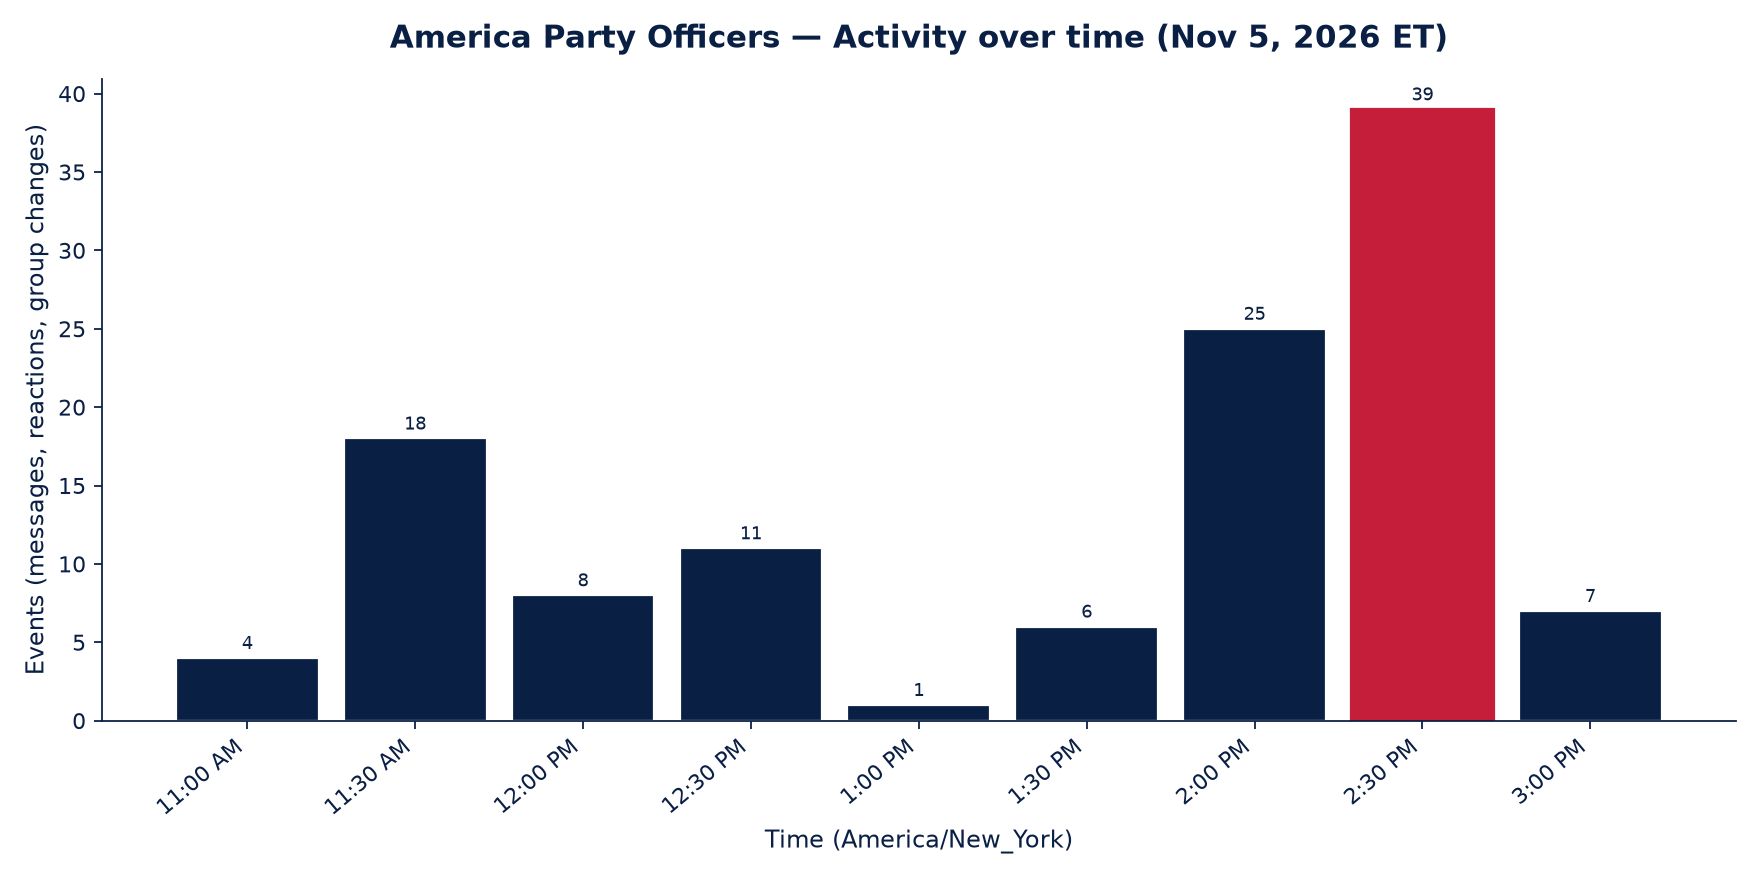
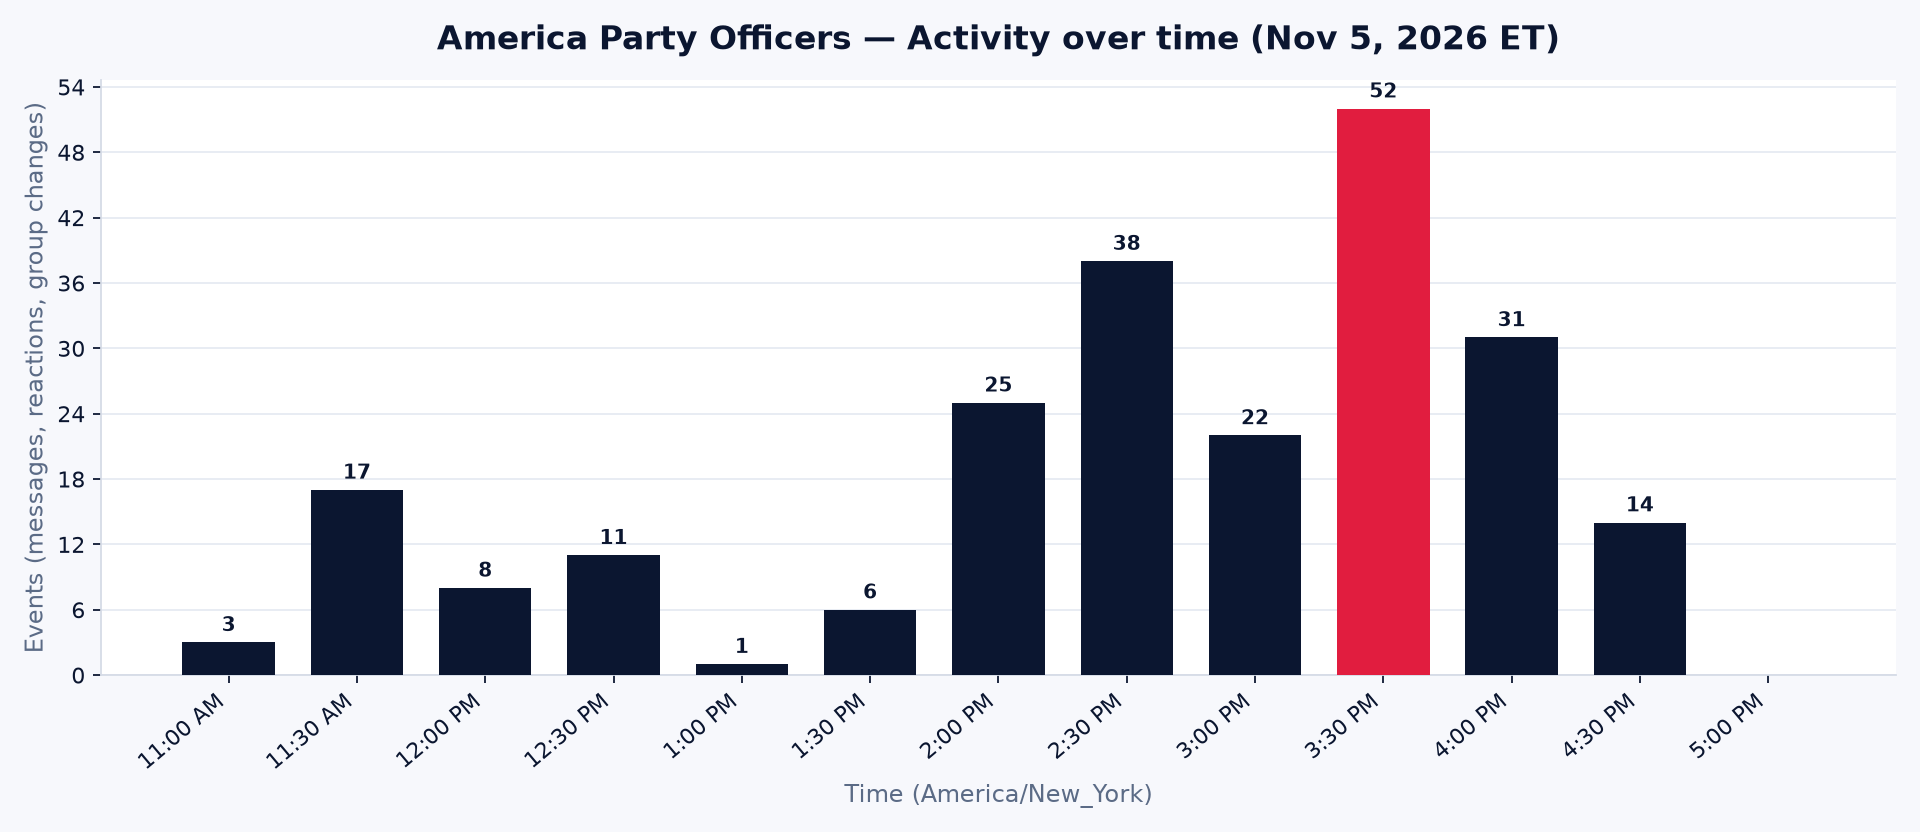
Update America Party recap with 13-plank draft and latest Officers chat
Refresh the standalone officers page from the Nov 5 X Chat scrape: thirteen platform planks, session summary through 4:51 PM ET, new charts, and designs shared by Ben and Jason.

diff --git a/america-party/index.html b/america-party/index.html
@@ -7,7 +7,7 @@
 <link rel="preconnect" href="https://fonts.gstatic.com" crossorigin>
 <link href="https://fonts.googleapis.com/css2?family=Archivo+Black&family=Manrope:wght@400;500;700;800&display=swap" rel="stylesheet">
 <title>America Party · Officers Recap</title>
-<meta name="description" content="America Party Officers X Chat recap — platform draft, conversation summary, charts, and branding imagery from Thu Nov 5, 2026.">
+<meta name="description" content="America Party Officers X Chat recap — 13-plank platform draft, conversation summary, charts, and branding imagery from Thu Nov 5, 2026.">
 <style>
 :root{--bg:#060d1c;--bg2:#0b1630;--card:#0f1d3a;--line:rgba(255,255,255,.09);--ink:#f4f6fb;--mut:#a7b3c9;--red:#e11d3f;--red2:#ff4d6a;--blue:#3b6cff;--trim:#d4b25a;
 --disp:"Archivo Black","Archivo",system-ui,sans-serif;--sans:"Manrope",system-ui,-apple-system,"Segoe UI",Roboto,sans-serif}
@@ -104,32 +104,32 @@ footer::before{content:"";display:block;width:90px;height:4px;margin:0 auto 18px
 
   <section class="panel reveal" id="platform">
     <span class="eyebrow">Platform draft</span>
-    <h2>Ten planks under discussion</h2>
-    <p class="lede">A working draft of ten planks, with each core idea kept separate from proposed wording. Sourced from the shared America First platform draft for revision inside the officers group.</p>
+    <h2>Thirteen planks under discussion</h2>
+    <p class="lede">A working draft of thirteen planks, with each core idea kept separate from proposed wording. Sourced from the shared America First platform draft for revision inside the officers group.</p>
     <div class="notice" role="note">
-      <strong>Draft, not adopted.</strong> A work in progress for discussion and revision. These positions have not been formally adopted.
+      <strong>Draft, not adopted.</strong> A work in progress for discussion and revision. All wording is proposed, not formally adopted. Open choices remain on implementation, costs, tradeoffs, and scope, including lawful entry rules, specific budget cuts, sentencing details, and how term limits would take effect.
     </div>
     <div class="planks">
       <article class="plank card">
-        <span class="num">1</span><h3>Closed borders</h3>
+        <span class="num">1</span><h3>Stop illegal entry, control legal entry</h3>
         <span class="label">Core idea</span>
-        <p class="core">Closed borders. Specific mechanisms are not yet decided.</p>
+        <p class="core">Enforce the border and stop illegal entry, while controlling lawful entry.</p>
         <span class="label w">Proposed wording</span>
-        <p class="wording">We decide who comes into this country. The law at the border should be enforced, and coming in illegally should stop. How we do that will be spelled out as the platform develops.</p>
+        <p class="wording">We decide who comes into this country. Enforce the law at the border and stop illegal entry. Legal entry should be controlled through a lawful process.</p>
       </article>
       <article class="plank card">
         <span class="num">2</span><h3>Balanced budgets</h3>
         <span class="label">Core idea</span>
-        <p class="core">Balanced budgets. Specific mechanisms are not yet decided.</p>
+        <p class="core">Balance the federal budget through real spending cuts and hard choices. Identify what gets cut and show the savings.</p>
         <span class="label w">Proposed wording</span>
-        <p class="wording">Families can't spend more than they take in forever, and neither should Washington. We will work to balance the federal budget and keep it balanced. The specific steps will be spelled out as the platform develops.</p>
+        <p class="wording">Balancing the federal budget will require real spending cuts and hard choices. We will identify what gets cut and show the savings, rather than promise balance without saying where it comes from.</p>
       </article>
       <article class="plank card">
         <span class="num">3</span><h3>Jobs for Americans</h3>
         <span class="label">Core idea</span>
-        <p class="core">Jobs for Americans. Specific mechanisms are not yet decided.</p>
+        <p class="core">Jobs for Americans.</p>
         <span class="label w">Proposed wording</span>
-        <p class="wording">Work in this country should go to Americans, and a job should pay enough to support a family. We want good jobs built and kept here. The specific policies will be spelled out as the platform develops.</p>
+        <p class="wording">Work in this country should go to Americans, and a job should pay enough to support a family. We want good jobs built and kept here.</p>
       </article>
       <article class="plank card">
         <span class="num">4</span><h3>Energy</h3>
@@ -143,14 +143,14 @@ footer::before{content:"";display:block;width:90px;height:4px;margin:0 auto 18px
         <span class="label">Core idea</span>
         <p class="core">We are a law and order party, and criminals should be in jail.</p>
         <span class="label w">Proposed wording</span>
-        <p class="wording">We are a law and order party. Laws should be enforced. People convicted of crimes, after a fair trial and due process, should serve their time in jail.</p>
+        <p class="wording">We are a law and order party. Laws should be enforced. People convicted of violent crimes and repeat offenders should face jail after due process. For minor crimes, penalties should be proportionate and can include restitution rather than jail.</p>
       </article>
       <article class="plank card">
         <span class="num">6</span><h3>Taxes</h3>
         <span class="label">Core idea</span>
         <p class="core">A national sales tax with food and medicine exempt. A consumption-based system using a national sales tax, with the aim that people who spend more, including wealthy consumers, pay more tax on that spending. The rate and which current taxes it would replace are not yet decided.</p>
         <span class="label w">Proposed wording</span>
-        <p class="wording">We want a tax system based on what people buy, through a national sales tax. Food and medicine would not be taxed. Our aim is that people who spend more pay more on that spending. The rate, and which of today's taxes it replaces, will be spelled out as the platform develops.</p>
+        <p class="wording">We want a tax system based on what people buy, through a national sales tax. Food and medicine would not be taxed. Our aim is that people who spend more pay more on that spending. Open choices: the rate, which current taxes this replaces rather than adds to, and the transition rules. The design must address purchases made with previously taxed savings; no treatment has been chosen.</p>
       </article>
       <article class="plank card">
         <span class="num">7</span><h3>Abortion</h3>
@@ -171,14 +171,35 @@ footer::before{content:"";display:block;width:90px;height:4px;margin:0 auto 18px
         <span class="label">Core idea</span>
         <p class="core">Two terms per chamber: two terms in the Senate and two terms in the House of Representatives.</p>
         <span class="label w">Proposed wording</span>
-        <p class="wording">We support a limit of two terms in the Senate and two terms in the House of Representatives. How these limits would take effect will be spelled out as the platform develops.</p>
+        <p class="wording">We support a limit of two terms in the Senate and two terms in the House of Representatives.</p>
       </article>
       <article class="plank card">
         <span class="num">10</span><h3>Innovation, technology, and manufacturing</h3>
         <span class="label">Core idea</span>
         <p class="core">Plan for and embrace the future. Innovation and technology should pave the way for America to lead the world across fields, including manufacturing.</p>
         <span class="label w">Proposed wording</span>
-        <p class="wording">We will plan for the future and embrace innovation and technology. We want America to develop new technologies, put them to work, and lead the world across industries and fields, including manufacturing. Building the future should mean making things in America and preparing Americans for the work ahead.</p>
+        <p class="wording">We will plan for the future and embrace innovation and technology. We want America to develop new technologies, put them to work, and lead the world across industries and fields, including manufacturing. Building the future should mean making things in America and preparing Americans for the work ahead. Expand access to trade education and apprenticeships alongside other education paths.</p>
+      </article>
+      <article class="plank card">
+        <span class="num">11</span><h3>Healthcare and affordability</h3>
+        <span class="label">Core idea</span>
+        <p class="core">Proposed addition: make healthcare costs easier to understand and compare, and improve affordability and access.</p>
+        <span class="label w">Proposed wording</span>
+        <p class="wording">People should be able to understand what planned care will cost before agreeing to it. Require clear prices before planned care and make it easier to compare providers. Open choices: how to address insurance costs, coverage, and access to care beyond price transparency.</p>
+      </article>
+      <article class="plank card">
+        <span class="num">12</span><h3>Constitutional rights and equal treatment</h3>
+        <span class="label">Core idea</span>
+        <p class="core">Proposed addition: protect speech, privacy, due process, equal treatment, and accountability for government abuse.</p>
+        <span class="label w">Proposed wording</span>
+        <p class="wording">Protect constitutional rights, including speech, privacy, and due process. Apply the law equally and hold government accountable when it abuses its power. Open choices: the safeguards and accountability procedures that will put these commitments into practice.</p>
+      </article>
+      <article class="plank card">
+        <span class="num">13</span><h3>National defense and foreign policy</h3>
+        <span class="label">Core idea</span>
+        <p class="core">Proposed addition: defend the country, define priorities abroad, and set a clear standard for military commitments.</p>
+        <span class="label w">Proposed wording</span>
+        <p class="wording">Make defending the country and protecting Americans the first priorities of national defense. Use diplomacy to address disputes and weigh military commitments against a clear purpose, costs, and an exit plan. Open choices: alliance obligations, standards for using force, and defense spending priorities.</p>
       </article>
     </div>
     <p class="source-note">Source: <a href="https://america-first-platform-draft-3yrc.pages.grok.bot/" rel="noopener">America First platform draft</a> · for discussion and revision only.</p>
@@ -187,33 +208,34 @@ footer::before{content:"";display:block;width:90px;height:4px;margin:0 auto 18px
   <section class="panel reveal" id="summary">
     <span class="eyebrow">Officers chat</span>
     <h2>Session summary</h2>
-    <p class="lede">America Party Officers is a brand-new X Chat group Ben (<a href="https://x.com/TeslaFamBen">@TeslaFamBen</a>) spun up Thu Nov 5, 2026 (about 11:28 AM–3:13 PM ET). Full thread read: <strong>146</strong> decrypted events, <strong>81</strong> substantive posts. Tone: energetic and collaborative.</p>
-    <div class="stats"><span class="chip red">Thu · Nov 5, 2026</span><span class="chip"><strong>146</strong> events</span><span class="chip"><strong>81</strong> posts</span><span class="chip">~11:28 AM–3:13 PM ET</span></div>
-    <p>Ben welcomed everyone; Tim (<a href="https://x.com/RetiredYoungNW">@RetiredYoungNW</a>) and Devo (<a href="https://x.com/DevoFlyer">@DevoFlyer</a>) jumped in; Tom (<a href="https://x.com/TitaniumTomP">@TitaniumTomP</a>) pressed for short-term goals before mass invites; Jason (<a href="https://x.com/bauminater">@bauminater</a>) is an admin but hadn’t posted yet; Grok was added mid-afternoon.</p>
+    <p class="lede">America Party Officers is an X Chat group Ben (<a href="https://x.com/TeslaFamBen">@TeslaFamBen</a>) created Thu Nov 5, 2026 (11:28 AM–4:51 PM ET). Full thread read: <strong>281</strong> decrypted events, <strong>138</strong> substantive posts. Tone: energetic, informal, and collaborative.</p>
+    <div class="stats"><span class="chip red">Thu · Nov 5, 2026</span><span class="chip"><strong>281</strong> events</span><span class="chip"><strong>138</strong> posts</span><span class="chip">11:28 AM–4:51 PM ET</span></div>
+    <p>Ben opened the session and kept the branding and civic-idea threads moving. Tim (<a href="https://x.com/RetiredYoungNW">@RetiredYoungNW</a>) brought logo concepts and a living platform draft. Devo (<a href="https://x.com/DevoFlyer">@DevoFlyer</a>) pushed unity and statesmanship. Tom (<a href="https://x.com/TitaniumTomP">@TitaniumTomP</a>) pressed for a plan and wired the scrape-to-webpage workflow. Jason (<a href="https://x.com/bauminater">@bauminater</a>) joined the conversation mid-afternoon with healthcare, term limits, and poster designs. Grok was added mid-afternoon and could not see the earlier history.</p>
     <h3 class="sub">Main threads</h3>
     <ul class="threads">
-      <li class="card"><strong>Branding</strong><span>Temporary Cybertruck-style header; Tim shared logo/header designs; uniting language vs. “First”/MAGA associations; handle @AmericaParty4U; slogan ideas like “The party that brings people together.”</span></li>
-      <li class="card"><strong>Principles</strong><span>Clean energy, domestic manufacturing, constitutional rights, fiscal responsibility, all-inclusive unity; unite the middle rather than divide.</span></li>
-      <li class="card"><strong>Tooling</strong><span>America Bot ideas, GoFundMe for tokens, an X account, GitHub Pages summaries.</span></li>
+      <li class="card"><strong>Branding &amp; slogans</strong><span>Tim shared logo and header concepts. Ben posted a red-white-and-blue eagle with a purple shield, meant to blend the two major parties. Jason shared two “Free to Succeed. Fair for All.” posters (one labeled America Party, a later tweak labeled America First Party). Slogan tries included “The party that brings people together,” “One country. Core values. Term limits.,” “One Country. Abundance for All.,” “Free to succeed. Fair for all.,” and “Personal Freedom, Shared Prosperity.” No slogan was chosen.</span></li>
+      <li class="card"><strong>Principles &amp; platform</strong><span>Shared starting points: clean energy, domestic manufacturing, constitutional rights, fiscal responsibility, and unity. Devo asked for statesmanship, working across the aisle, and respect in disagreement; Tim agreed on respect but said core values should not be compromised. Jason asked that healthcare be in the draft (Tim said he added it) and called term limits non-negotiable. Others backed term limits, fair pay with controls, and no insider trading in Congress.</span></li>
+      <li class="card"><strong>Immigration &amp; civic ideas</strong><span>Devo suggested a competitive legal pathway to citizenship with yearly job-category quotas. Jason supported legal immigration and thought competition could help. Ben favored faster tracks for entrepreneurs and hard workers, with later check-ins. Serious crime was discussed as jail and/or deportation. Late ideas included nationwide voter ID and broader tax reform. None of these were adopted.</span></li>
+      <li class="card"><strong>Tooling</strong><span>Tom’s America Party bot scrapes this chat and republishes the GitHub Pages recap, pulling Tim’s latest draft. Ben offered a shared Google Doc; Tom preferred keeping the working notes in-chat. Grok can draft in-chat but cannot publish the site itself.</span></li>
     </ul>
   </section>
 
   <section class="panel reveal" id="charts">
     <span class="eyebrow">Data</span>
     <h2>Charts</h2>
-    <p class="mut">Activity from the first session of the officers group.</p>
+    <p class="mut">Activity from the Nov 5 officers session, 11:28 AM through 4:51 PM ET.</p>
     <div class="charts grid-2">
       <figure class="chart card">
-        <img src="assets/activity.png" alt="Activity over time chart for America Party Officers chat" loading="lazy" width="800" height="450">
-        <figcaption>Activity over time — posts across the Nov 5 afternoon session (ET)</figcaption>
+        <img src="assets/activity-over-time.png" alt="Activity over time chart for America Party Officers chat" loading="lazy" width="1920" height="832">
+        <figcaption>Activity over time — messages, reactions, and group changes across the Nov 5 session (ET)</figcaption>
       </figure>
       <figure class="chart card">
-        <img src="assets/top-posters.png" alt="Top posters chart" loading="lazy" width="800" height="450">
-        <figcaption>Top posters — who carried the conversation</figcaption>
+        <img src="assets/top-posters.png" alt="Top posters chart" loading="lazy" width="1600" height="832">
+        <figcaption>Top posters — who carried the conversation (138 substantive posts)</figcaption>
       </figure>
       <figure class="chart card">
-        <img src="assets/topics.png" alt="Topic breakdown chart" loading="lazy" width="800" height="450">
-        <figcaption>Topic breakdown — formation, branding, principles, and tooling</figcaption>
+        <img src="assets/topic-breakdown.png" alt="Topic breakdown chart" loading="lazy" width="1600" height="864">
+        <figcaption>Topic breakdown — branding, platform, civic ideas, and tooling</figcaption>
       </figure>
     </div>
   </section>
@@ -240,6 +262,18 @@ footer::before{content:"";display:block;width:90px;height:4px;margin:0 auto 18px
         <figcaption><strong>Logo design 2</strong>Shared by Tim · <a href="https://x.com/RetiredYoungNW">@RetiredYoungNW</a></figcaption>
       </figure>
       <figure class="card">
+        <img src="assets/eagle-purple-heart.jpg" alt="The America Party eagle graphic with a purple shield, shared by Ben" loading="lazy">
+        <figcaption><strong>Purple-heart eagle</strong>Shared by Ben · <a href="https://x.com/TeslaFamBen">@TeslaFamBen</a> · red and blue blended into a purple shield</figcaption>
+      </figure>
+      <figure class="card">
+        <img src="assets/jason-design-1.jpg" alt="America Party poster: Free to Succeed. Fair for All. Shared by Jason" loading="lazy">
+        <figcaption><strong>Free to Succeed poster</strong>Shared by Jason · <a href="https://x.com/bauminater">@bauminater</a></figcaption>
+      </figure>
+      <figure class="card">
+        <img src="assets/jason-design-2.jpg" alt="America First Party poster tweak: Free to Succeed. Fair for All. Shared by Jason" loading="lazy">
+        <figcaption><strong>Poster tweak</strong>Shared by Jason · <a href="https://x.com/bauminater">@bauminater</a> · “Working on tweaks”</figcaption>
+      </figure>
+      <figure class="card">
         <img src="assets/verification.jpg" alt="Verification pending screenshot shared by Ben" loading="lazy">
         <figcaption><strong>Verification pending</strong>Shared by Ben · <a href="https://x.com/TeslaFamBen">@TeslaFamBen</a></figcaption>
       </figure>
@@ -250,11 +284,11 @@ footer::before{content:"";display:block;width:90px;height:4px;margin:0 auto 18px
     <span class="eyebrow">Next steps</span>
     <h2>Action items</h2>
     <ul class="actions">
-      <li class="card">Hold off on mass invites until a short-term plan exists.</li>
-      <li class="card">Tim drafting logos, headers, and a charter.</li>
-      <li class="card">Ben offered a shared Google Doc — Tom preferred keeping brainstorming in-chat.</li>
-      <li class="card">Super PAC @america alignment floated.</li>
-      <li class="card">Tom made admin and is wiring bot/API support.</li>
+      <li class="card">Keep iterating Tim’s living platform draft — healthcare is now among the thirteen planks.</li>
+      <li class="card">Collect branding feedback on Ben’s purple-heart eagle and Jason’s poster concepts.</li>
+      <li class="card">Narrow slogan options; several proposals, no pick yet.</li>
+      <li class="card">Continue discussing open ideas on legal immigration, term limits, voter ID, and tax reform — none adopted.</li>
+      <li class="card">Tom’s scrape workflow republishes this page from the chat and the latest draft.</li>
     </ul>
     <a class="dl" href="assets/chat.xlsx" download>↓ Download chat spreadsheet (.xlsx)</a>
   </section>
